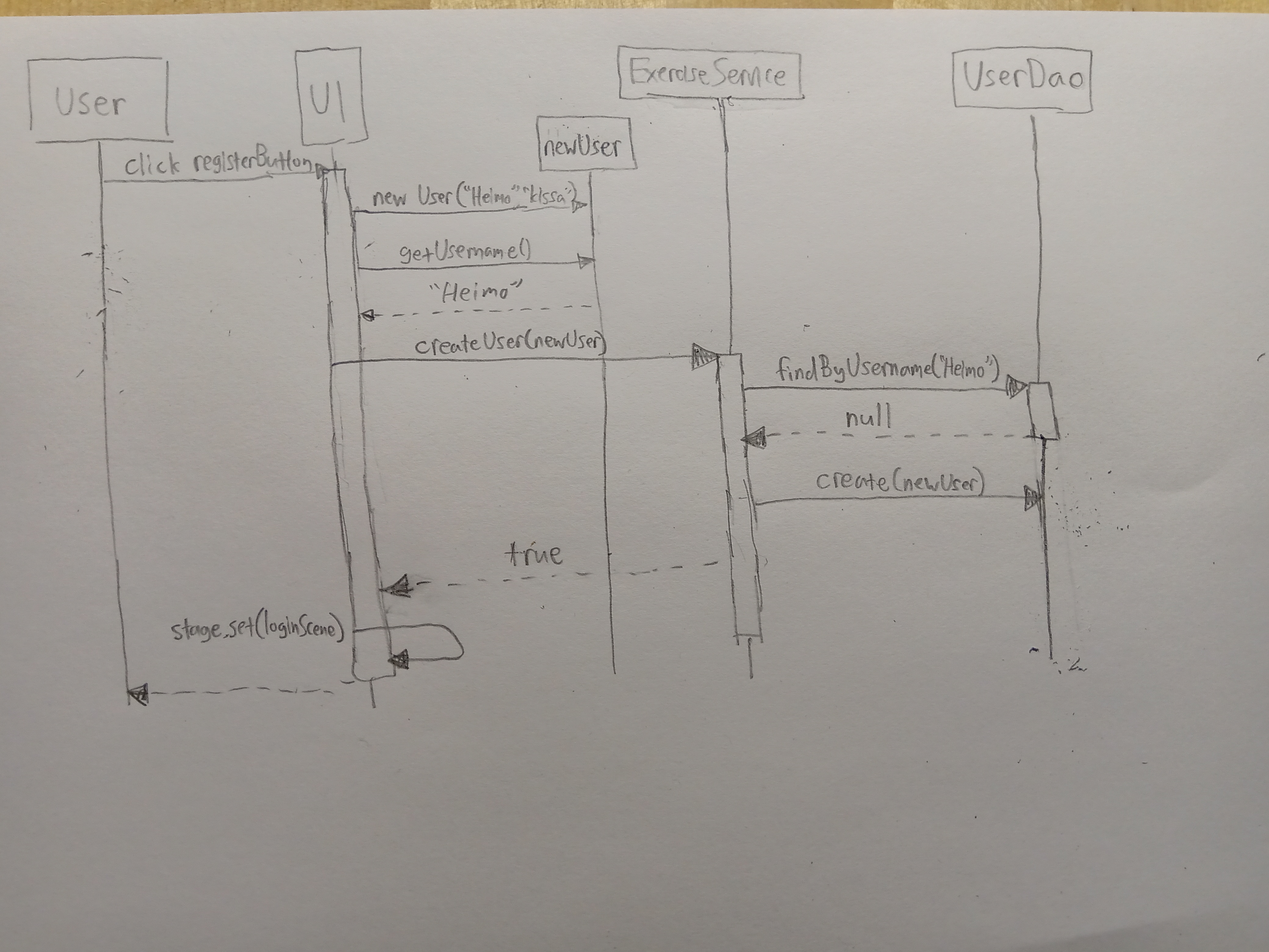
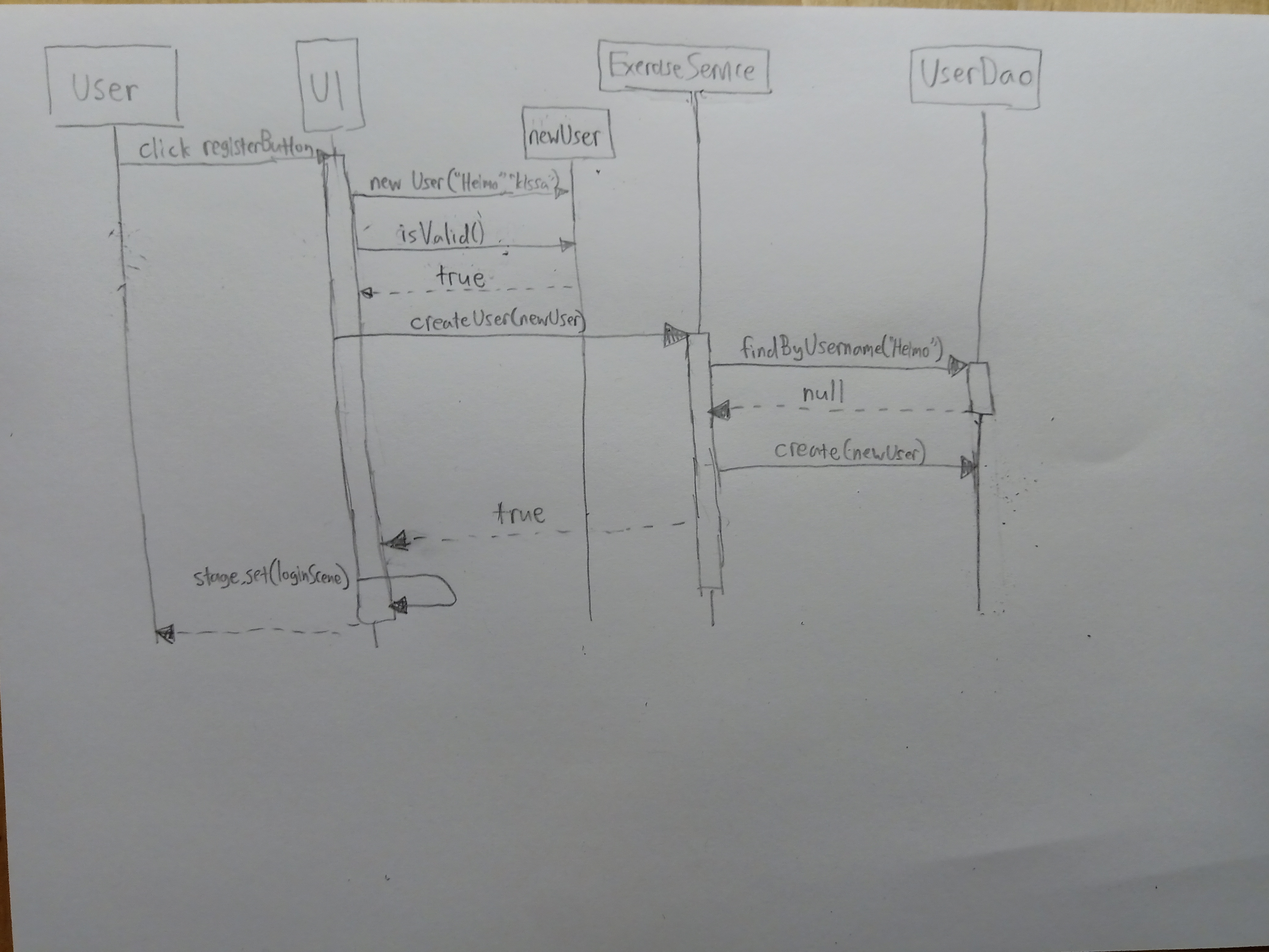
username and password validation

diff --git a/Tehtavageneraattori/src/main/java/exercisegenerator/domain/User.java b/Tehtavageneraattori/src/main/java/exercisegenerator/domain/User.java
@@ -10,13 +10,17 @@ public class User {
 
     
     public User(String username, String password) {
-        if (username.length() < 3 || password.length() < 5) {
-            this.username = null;
-        } else {
-            this.username = username;
-            this.password = password;
-        }
+        this.username=username;
+        this.password=password;
 
+    }
+    
+    public boolean isValid() {
+        if (this.username.length() < 3 || this.password.length() < 5) {
+            return false;
+        } else {
+            return true;
+        }
     }
 
     public String getUsername() {

diff --git a/Tehtavageneraattori/src/main/java/exercisegenerator/ui/ExerciseGeneratorUi.java b/Tehtavageneraattori/src/main/java/exercisegenerator/ui/ExerciseGeneratorUi.java
@@ -272,7 +272,7 @@ public class ExerciseGeneratorUi extends Application {
             String password = passwordRegInput.getText();
             User newUser = new User(username, password);
             
-            if (newUser.getUsername() == null) {
+            if (!newUser.isValid()) {
                 registerNotification.setText("username or password is too short");
                 registerNotification.setTextFill(Color.RED);
             } else if (exService.createUser(newUser)) {
